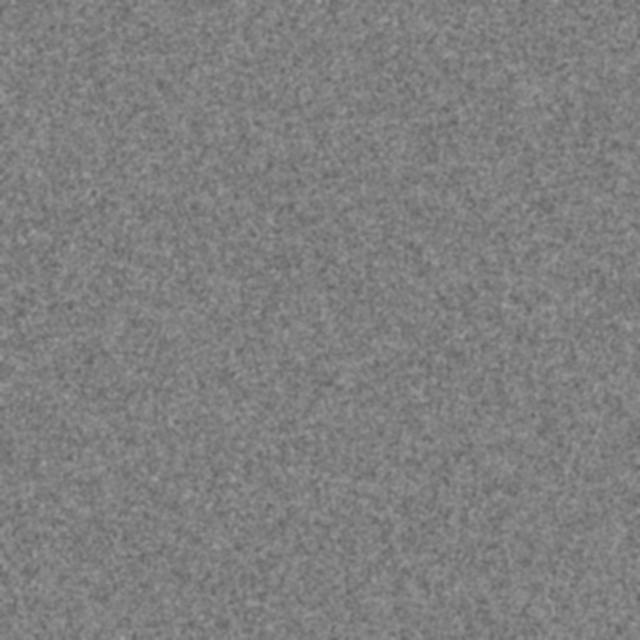
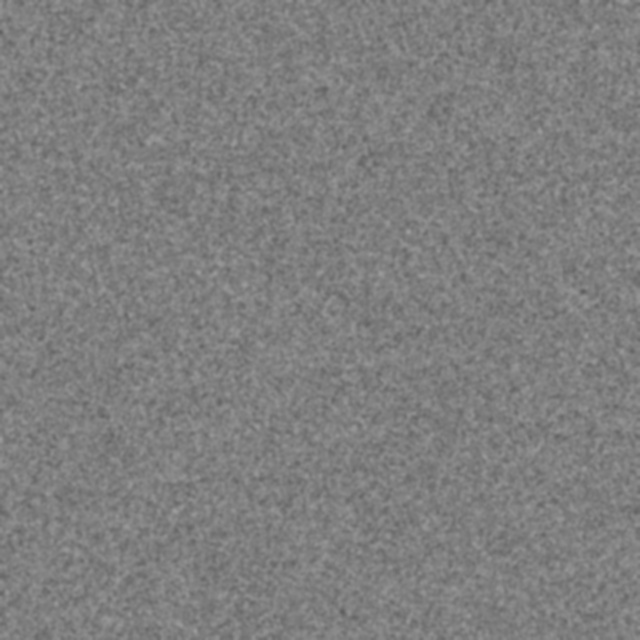
Versi OPENCV 4.14.0

Changed region(s): [[0.625, 0.375, 0.6562, 0.4062]]

diff --git a/importNames.py b/importNames.py
@@ -1,8 +1,8 @@
 from ultralytics import YOLO
 from pathlib import Path
 
-# Path model
-model_path = Path("models/yolo11s.pt")
+import tensorrt
+model_path = Path("models/best.pt")
 
 # Load model
 model = YOLO(str(model_path))

diff --git a/README.md b/README.md
@@ -5,6 +5,21 @@ Pipeline native **GStreamer C++**:
 ```
 Input (USB UVC / RTSP) → capture (appsink) → inferensi YOLO (OpenCV DNN) → output RTSP server (appsrc → x264enc → rtph264pay)
 ```
+## 1. Buat VENV & Install YOLO
+
+```bash
+python3 -m venv venv
+source /path/to/venv/bin/activate
+
+git submodule update --init --recursive
+
+pip install ultralytics numpy
+
+# pastikan venv aktif dulu
+
+pip install --upgrade pip
+pip install --extra-index-url https://pypi.nvidia.com tensorrt
+```
 
 ## 1. Dependency
 
